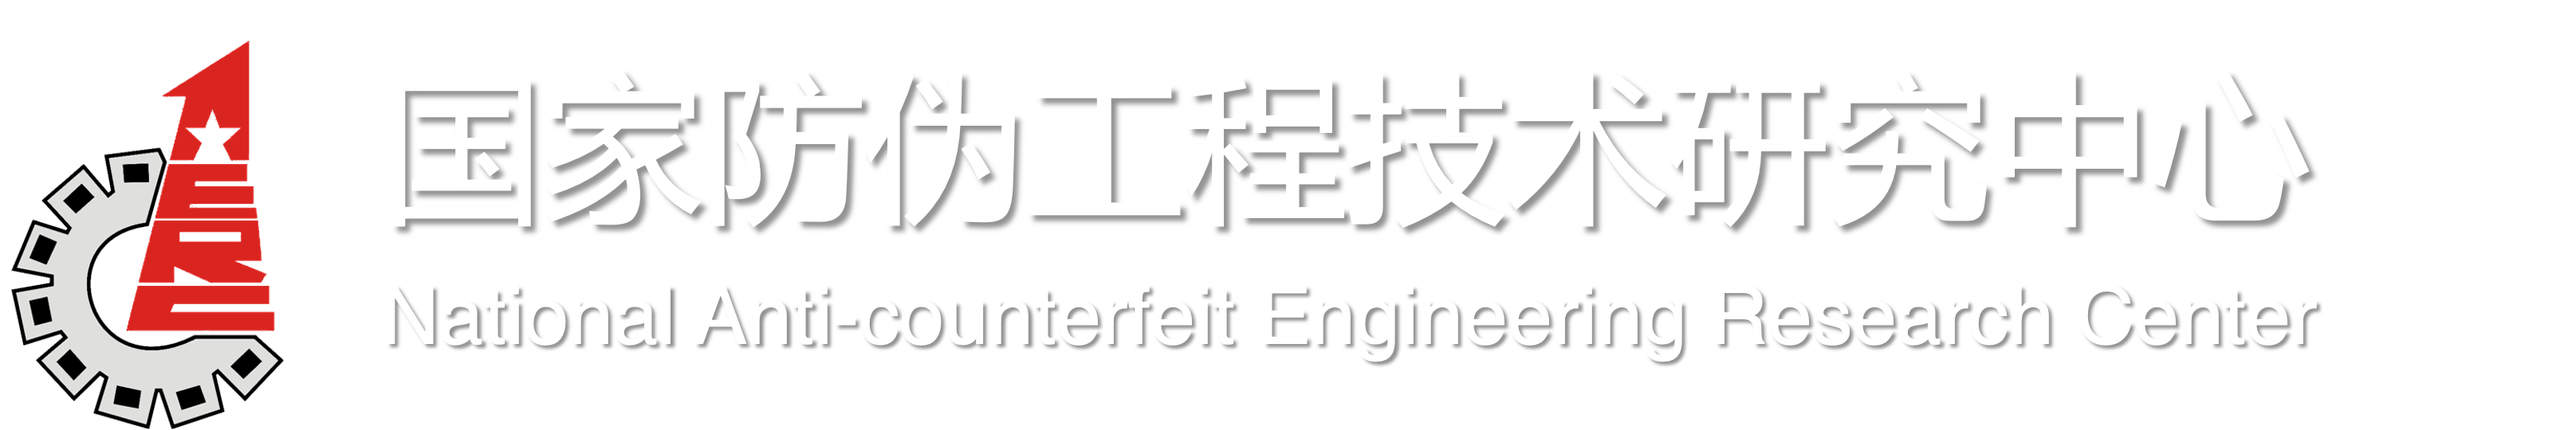
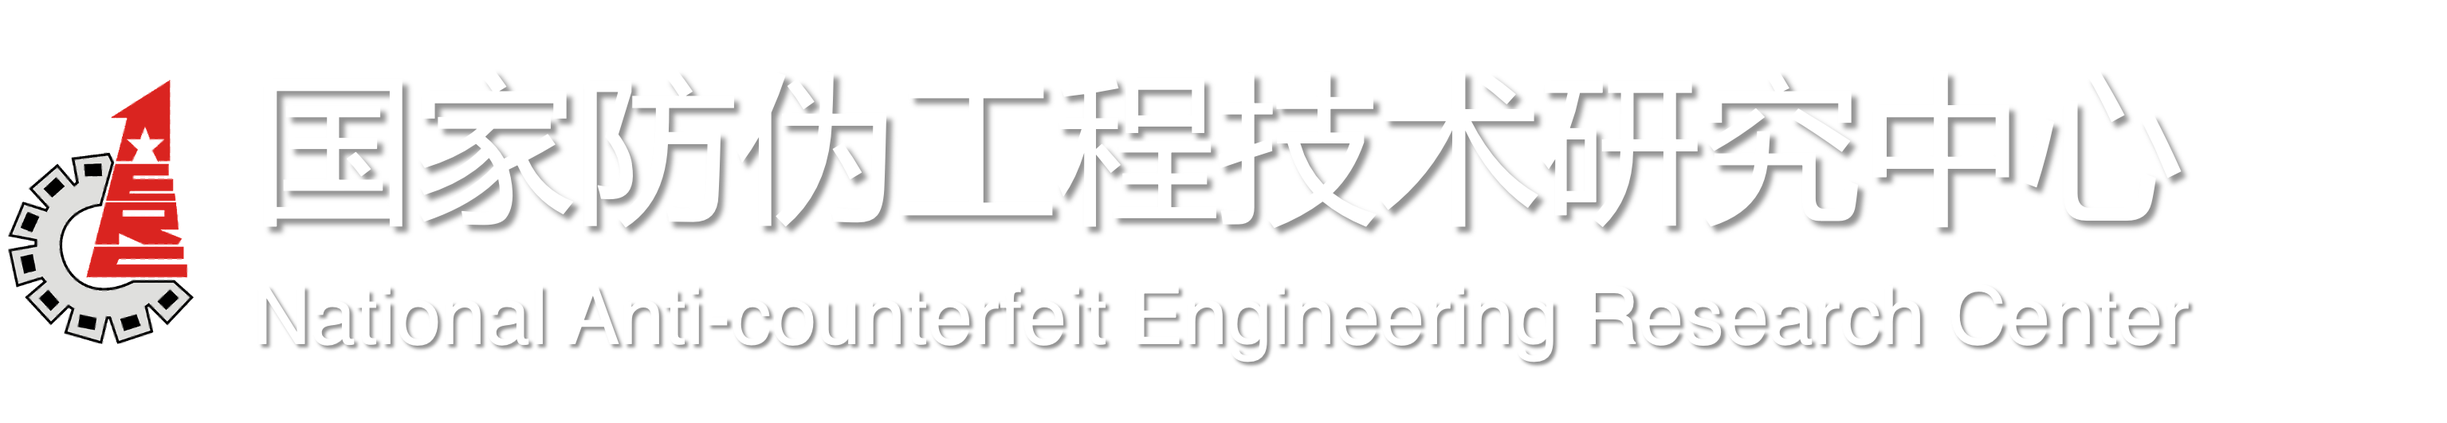
更新cover图尺寸和内容

Changed region(s): [[0.0, 0.1205, 0.8974, 0.9944]]

diff --git a/assets/css/beautifuljekyll.css b/assets/css/beautifuljekyll.css
@@ -730,7 +730,7 @@ nav.top-nav-short-permanent ~ header > .intro-header.big-img {
   }
   .intro-header.big-img .page-heading,
   .intro-header.big-img .post-heading {
-    padding: 4rem 0;
+    padding: 2rem 0;
   }
   .intro-header .page-heading h1 {
     font-size: 5rem;
